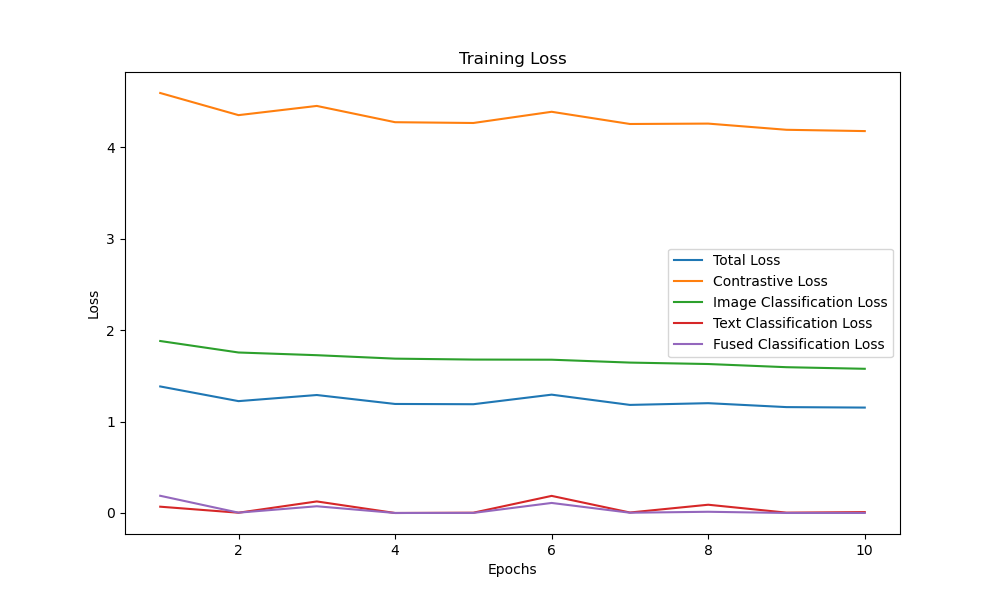
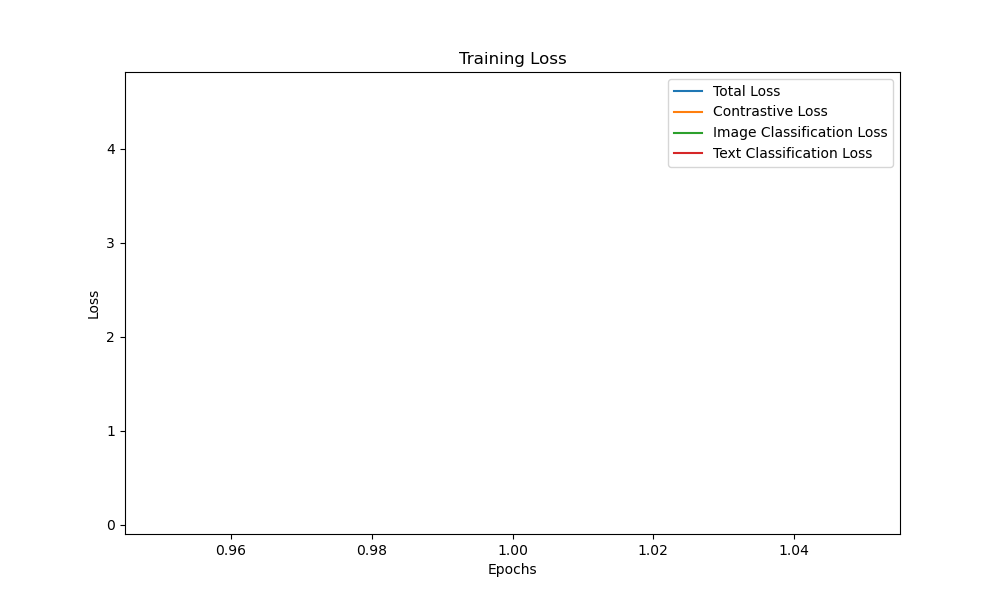
专家输出可视化

diff --git a/test.py b/test.py
@@ -24,7 +24,7 @@ def test(model, dataloader, device, label_to_text_map):
             attention_mask = attention_mask.to(device)
             labels = labels.to(device)
             
-            image_feature_vector, text_feature_vector, image_cls, text_cls = model(images, input_ids, attention_mask)
+            image_feature_vector, text_feature_vector, image_cls, text_cls,  (first_expert_outputs, second_expert_outputs), (first_gating_output, second_gating_output) = model(images, input_ids, attention_mask)
             _, preds = torch.max(image_cls, 1)
             
             all_preds.extend(preds.cpu().tolist())
@@ -40,6 +40,7 @@ def test(model, dataloader, device, label_to_text_map):
         print(f"预测: {pred_text}, 实际: {true_text}")
     
     print(f"\n准确率: {accuracy:.4f}")
+    visualize_expert_attention(model, dataloader, device, num_experts=10)
     return accuracy
 
 def visualize_predictions(model, dataloader, device, label_to_text_map):
@@ -54,7 +55,7 @@ def visualize_predictions(model, dataloader, device, label_to_text_map):
     plt.rcParams['axes.unicode_minus'] = False  # 正确显示负号
     
     with torch.no_grad():
-        image_feature_vector, text_feature_vector, image_cls, text_cls = model(images, input_ids, attention_mask)
+        image_feature_vector, text_feature_vector, image_cls, text_cls,  (first_expert_outputs, second_expert_outputs), (first_gating_output, second_gating_output) = model(images, input_ids, attention_mask)
         _, preds = torch.max(image_cls, 1)
     
     fig, axes = plt.subplots(3, 3, figsize=(15, 15))
@@ -86,3 +87,91 @@ def print_output_distribution(outputs):
     avg_probs = probs.mean(dim=0)
     for i, prob in enumerate(avg_probs):
         print(f"Class {i}: {prob.item():.4f}")
+
+
+
+def visualize_expert_attention(model, dataloader, device, num_experts=10):
+    model.eval()
+    images, input_ids, attention_mask, labels = next(iter(dataloader))
+    images = images.to(device)
+    input_ids = input_ids.to(device)
+    attention_mask = attention_mask.to(device)
+    
+    with torch.no_grad():
+        image_feature_vector, text_feature_vector, image_cls, text_cls, \
+        (first_expert_outputs, second_expert_outputs), (first_gating_output, second_gating_output) = \
+            model(images, input_ids, attention_mask)
+    
+    # 设置中文字体
+    plt.rcParams['font.sans-serif'] = ['SimHei']
+    plt.rcParams['axes.unicode_minus'] = False
+    
+    # 可视化图像专家注意力
+    batch_size = images.size(0)
+    for batch_idx in range(min(3, batch_size)):  # 只显示前3个样本
+        fig, axes = plt.subplots(3, num_experts, figsize=(20, 12))
+        fig.suptitle(f'样本 {batch_idx + 1} 的专家注意力分布', fontsize=16)
+        
+        # 显示原图
+        img = images[batch_idx].cpu().numpy()
+        if img.shape[0] == 3:  # RGB图像
+            img = img.transpose(1, 2, 0)
+        else:  # 灰度图像
+            img = img.squeeze()
+        img = (img - img.min()) / (img.max() - img.min())
+        
+        for expert_idx in range(num_experts):
+            axes[0, expert_idx].imshow(img, cmap='gray' if img.ndim == 2 else None)
+            axes[0, expert_idx].set_title('原图')
+            axes[0, expert_idx].axis('off')
+        
+        # 第一层MoE的专家注意力
+        for expert_idx in range(num_experts):
+            expert_output = first_expert_outputs[expert_idx][batch_idx]
+            attention_map = expert_output.norm(dim=-1).cpu().numpy()
+            attention_map = attention_map.reshape(8, 8)  # 假设patch size为4，32x32图像会得到8x8的注意力图
+            
+            axes[1, expert_idx].imshow(attention_map, cmap='hot')
+            axes[1, expert_idx].set_title(f'专家 {expert_idx}\n第一层')
+            axes[1, expert_idx].axis('off')
+        
+        # 第二层MoE的专家注意力
+        for expert_idx in range(num_experts):
+            expert_output = second_expert_outputs[expert_idx][batch_idx]
+            attention_map = expert_output.norm(dim=-1).cpu().numpy()
+            attention_map = attention_map.reshape(8, 8)
+            
+            axes[2, expert_idx].imshow(attention_map, cmap='hot')
+            axes[2, expert_idx].set_title(f'专家 {expert_idx}\n第二层')
+            axes[2, expert_idx].axis('off')
+        
+        plt.tight_layout()
+        plt.savefig(f'expert_attention_sample_{batch_idx}.png')
+        plt.close()
+    
+    # 可视化门控网络的分配情况
+    plt.figure(figsize=(15, 5))
+    
+    # 第一层MoE的门控分布
+    plt.subplot(1, 2, 1)
+    gating_weights = first_gating_output[0].cpu().numpy()
+    plt.imshow(gating_weights, aspect='auto', cmap='viridis')
+    plt.title('第一层MoE门控分布')
+    plt.xlabel('专家')
+    plt.ylabel('Token')
+    plt.colorbar()
+    
+    # 第二层MoE的门控分布
+    plt.subplot(1, 2, 2)
+    gating_weights = second_gating_output[0].cpu().numpy()
+    plt.imshow(gating_weights, aspect='auto', cmap='viridis')
+    plt.title('第二层MoE门控分布')
+    plt.xlabel('专家')
+    plt.ylabel('Token')
+    plt.colorbar()
+    
+    plt.tight_layout()
+    plt.savefig('gating_distribution.png')
+    plt.close()
+    
+    print("专家注意力可视化结果已保存")

diff --git a/train.py b/train.py
@@ -37,14 +37,13 @@ def train(model, dataloader, optimizer, device, num_epochs, save_path):
             labels = labels.to(device)
             optimizer.zero_grad()
             
-            image_feature_vector, text_feature_vector, image_cls, text_cls, fused_cls, (first_expert_outputs, second_expert_outputs), (first_gating_output, second_gating_output) = model(images, input_ids, attention_mask)
+            image_feature_vector, text_feature_vector, image_cls, text_cls,  (first_expert_outputs, second_expert_outputs), (first_gating_output, second_gating_output) = model(images, input_ids, attention_mask)
             contrastive_loss = info_nce_loss(image_feature_vector, text_feature_vector)
             image_cls_loss = criterion(image_cls, labels)
             text_cls_loss = criterion(text_cls, labels)
-            fused_cls_loss = criterion(fused_cls, labels)
             
             # 调整损失权重
-            loss = 0.2 * contrastive_loss + 0.2 * image_cls_loss + 0.2 * text_cls_loss + 0.4 * fused_cls_loss
+            loss = 0.2 * contrastive_loss + 0.6 * image_cls_loss + 0.2 * text_cls_loss 
 
             loss.backward()
             optimizer.step()
@@ -53,15 +52,13 @@ def train(model, dataloader, optimizer, device, num_epochs, save_path):
             contrastive_loss_sum += contrastive_loss.item()
             image_cls_loss_sum += image_cls_loss.item()
             text_cls_loss_sum += text_cls_loss.item()
-            fused_cls_loss_sum += fused_cls_loss.item()
 
             # 更新进度条描述
             dataloader_tqdm.set_postfix({
                 'Loss': loss.item(),
                 'Contrastive Loss': contrastive_loss.item(),
                 'Image Classification Loss': image_cls_loss.item(),
-                'Text Classification Loss': text_cls_loss.item(),
-                'Fused Classification Loss': fused_cls_loss.item()
+                'Text Classification Loss': text_cls_loss.item()
             })
 
         # 计算平均损失
@@ -69,14 +66,12 @@ def train(model, dataloader, optimizer, device, num_epochs, save_path):
         avg_contrastive_loss = contrastive_loss_sum / len(dataloader)
         avg_image_cls_loss = image_cls_loss_sum / len(dataloader)
         avg_text_cls_loss = text_cls_loss_sum / len(dataloader)
-        avg_fused_cls_loss = fused_cls_loss_sum / len(dataloader)
 
         # 记录损失
         epoch_losses['total'].append(avg_loss)
         epoch_losses['contrastive'].append(avg_contrastive_loss)
         epoch_losses['image_cls'].append(avg_image_cls_loss)
         epoch_losses['text_cls'].append(avg_text_cls_loss)
-        epoch_losses['fused_cls'].append(avg_fused_cls_loss)
 
         print(f"Epoch {epoch+1}/{num_epochs}, Average Loss: {avg_loss:.4f}")
 
@@ -90,7 +85,6 @@ def train(model, dataloader, optimizer, device, num_epochs, save_path):
     plt.plot(epochs, epoch_losses['contrastive'], label='Contrastive Loss')
     plt.plot(epochs, epoch_losses['image_cls'], label='Image Classification Loss')
     plt.plot(epochs, epoch_losses['text_cls'], label='Text Classification Loss')
-    plt.plot(epochs, epoch_losses['fused_cls'], label='Fused Classification Loss')
     plt.title('Training Loss')
     plt.xlabel('Epochs')
     plt.ylabel('Loss')

diff --git a/model.py b/model.py
@@ -5,23 +5,23 @@ from cross_attention import CrossAttention
 
 
 class DualTowerModel(nn.Module):
-    def __init__(self, vocab_size, output_dim=1024, n_head=8, num_classes = 10):
+    def __init__(self, vocab_size, output_dim=1024, n_head=8, num_classes=10):
         super().__init__()
         self.image_tower = ImageMoE()
         self.text_tower = TextMoE(vocab_size)
         self.cross_attention = CrossAttention(output_dim, n_head)
-        self.classifier = nn.Linear(output_dim, num_classes)
+
+        self.classifier = nn.Linear(output_dim, num_classes)      # 从1024->10
 
     def forward(self, images, input_ids, attention_mask):
-        first_image_output, second_image_output, image_feature_vector, image_cls = self.image_tower(images)
+        first_image_output, second_image_output, image_feature_vector, image_cls, (first_expert_outputs, second_expert_outputs), (first_gating_output, second_gating_output) = self.image_tower(images)
         first_text_output, second_text_output, text_feature_vector, text_cls = self.text_tower(input_ids, attention_mask)
         
-        # 应用交叉注意力
-        cross_attention_output = self.cross_attention(image_feature_vector, text_feature_vector)
+        # # 应用交叉注意力
+        # cross_attention_output = self.cross_attention(image_feature_vector, text_feature_vector)
         
-        cross_attention_output = cross_attention_output.mean(dim=1)  # 平均池化
+        # # 确保维度正确
+        # cross_attention_output = cross_attention_output.mean(dim=1)  # 平均池化，得到 [batch_size, output_dim]
+        # classification_output = self.classifier(cross_attention_output)        # [batch_size, num_classes]
         
-        # 使用 classifier 层生成分类预测
-        classification_output = self.classifier(cross_attention_output)
-        
-        return image_feature_vector, text_feature_vector, image_cls, text_cls
+        return image_feature_vector, text_feature_vector, image_cls, text_cls,  (first_expert_outputs, second_expert_outputs), (first_gating_output, second_gating_output)

diff --git a/moe_encoders.py b/moe_encoders.py
@@ -112,32 +112,8 @@ class TextMoE(nn.Module):
         x = x + self.pos_embedding.to(x.device)
 
         x = self.dropout(x)
-        first_output = self.first_moe(self.ln2(x))
-        second_output = self.second_moe(self.ln3(x))
+        first_output, _, _ = self.first_moe(self.ln2(x))
+        second_output, _, _ = self.second_moe(self.ln3(x))
         feature_vector = second_output.mean(dim=1)  # 取平均值作为特征向量
         cls = self.classification(feature_vector)
         return first_output, second_output, feature_vector, cls
-
-def visualize_expert_preferences(model, image, save_path):
-    model.eval()
-    with torch.no_grad():
-        _, _, _, _, (first_expert_outputs, second_expert_outputs), (first_gating_output, second_gating_output) = model.image_tower(image.unsqueeze(0))
-
-    num_experts = model.image_tower.num_experts
-    fig, axes = plt.subplots(2, num_experts, figsize=(20, 8))
-
-    for layer, (expert_outputs, gating_output) in enumerate([(first_expert_outputs, first_gating_output), (second_expert_outputs, second_gating_output)]):
-        for i in range(num_experts):
-            expert_output = expert_outputs[i].squeeze().mean(dim=-1).view(8, 8).cpu().numpy()
-            gating_weights = gating_output.squeeze()[:, i].view(8, 8).cpu().numpy()
-
-            combined = expert_output * gating_weights
-            axes[layer, i].imshow(combined, cmap='viridis')
-            axes[layer, i].set_title(f"Layer {layer+1}, Expert {i+1}")
-            axes[layer, i].axis('off')
-
-    plt.tight_layout()
-    plt.savefig(save_path)
-    plt.close()
-
-    print(f"专家偏好可视化已保存为 '{save_path}'")

diff --git a/main.py b/main.py
@@ -20,7 +20,7 @@ def main():
     set_seed(42)  # 您可以选择任何整数作为种子
 
     # 设置超参数
-    epochs = 1
+    epochs = 10
     batch_size = 64
     lr = 0.001
     vocab_size = 30522
